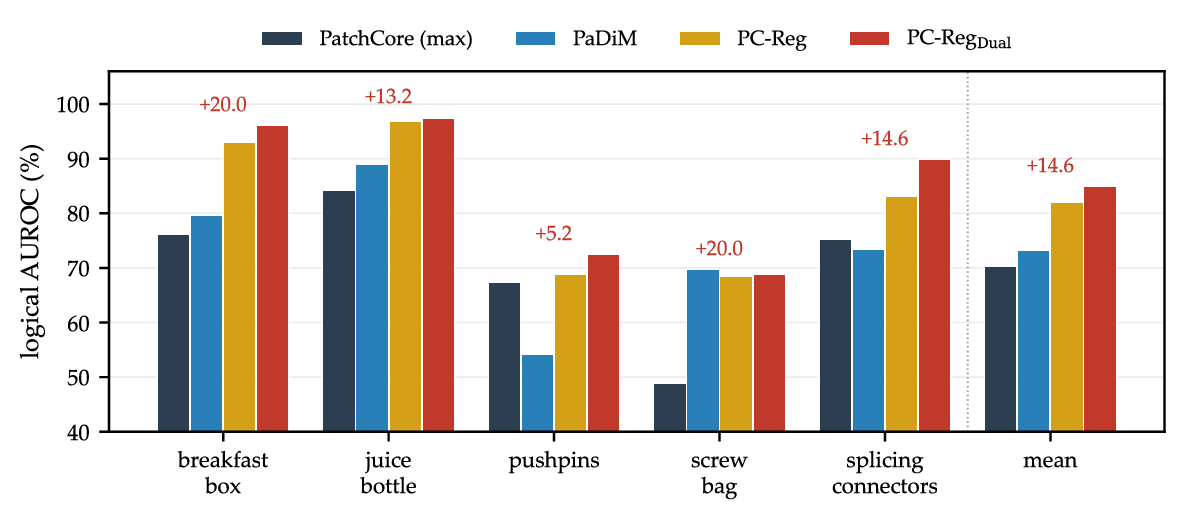
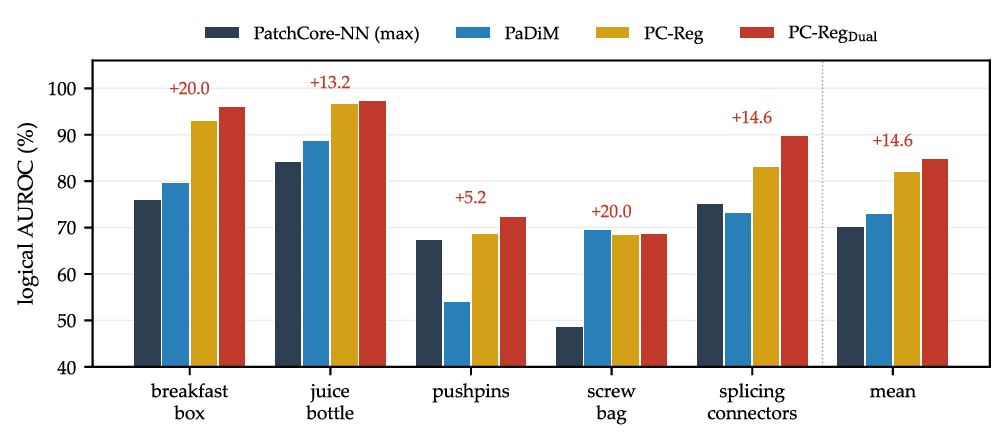
Align the repository with the final revised manuscript
- README: name release v1.1 as the version of the revised manuscript and give the
  GPU fitting time next to the CPU time of the reference implementation
- docs/logical_per_category.png: figure of the revised manuscript (PatchCore-NN naming)
- remove results/paper/ablation_mlp.csv: the revised manuscript replaces this result
  with the gradient-based fitting experiment (results/revision_1/gradient_predictors.csv)

diff --git a/README.md b/README.md
@@ -5,6 +5,9 @@ Code and results of the paper
 > S. Villanueva López, E. Soria-Olivas, M. Sánchez-Montañés. *PC-Reg: Modeling Spatial Dependencies for
 > Logical Anomaly Detection.* Submitted to *Electronics* (MDPI), 2026.
 
+Release [v1.1](https://github.com/sergiovillanueva/pc-reg/releases/tag/v1.1) is the version of the code and results
+that corresponds to the revised manuscript, including the analyses added during its revision (`results/revision_1/`).
+
 PC-Reg learns from defect-free images how each region of an image relates to its surroundings. A frozen
 DINOv3 backbone provides the patch features; at every position of the feature grid, a closed-form ridge
 regression predicts the patch feature from its attention-weighted neighbors, and the Mahalanobis distance of
@@ -106,7 +109,9 @@ python scripts/make_tables.py --compare
 ```
 
 `scripts/run_main.py` computes PC-Reg, PC-Reg_CLS, PC-Reg_Dual and the baselines for one category in a few
-minutes on a desktop CPU. Fitting PC-Reg_Dual alone takes about 72 s per category on one CPU core (ViT-L/16).
+minutes on a desktop CPU. Fitting PC-Reg_Dual alone takes about 72 s per category on one CPU core with this reference
+implementation (ViT-L/16), and about 5 s on the GPU with the batched implementation used for the timings of the paper
+(`results/revision_1/timing_fit_gpu.csv`).
 
 ## Code
 
